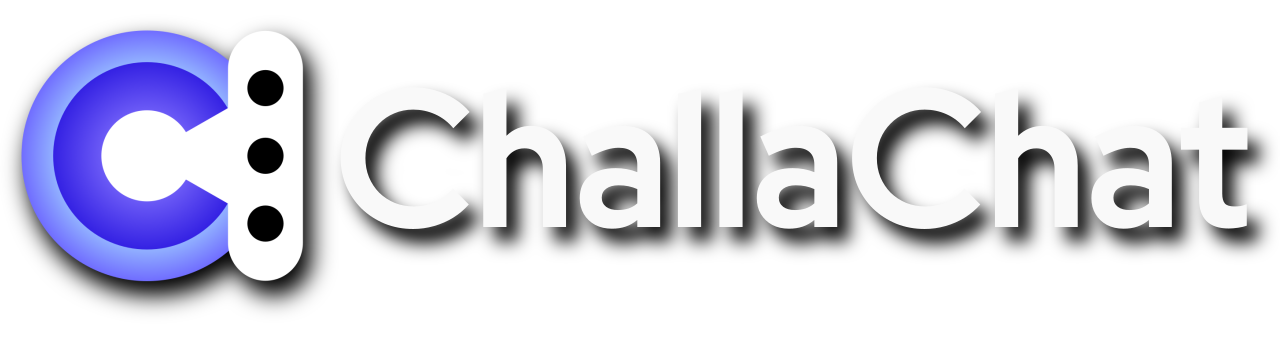
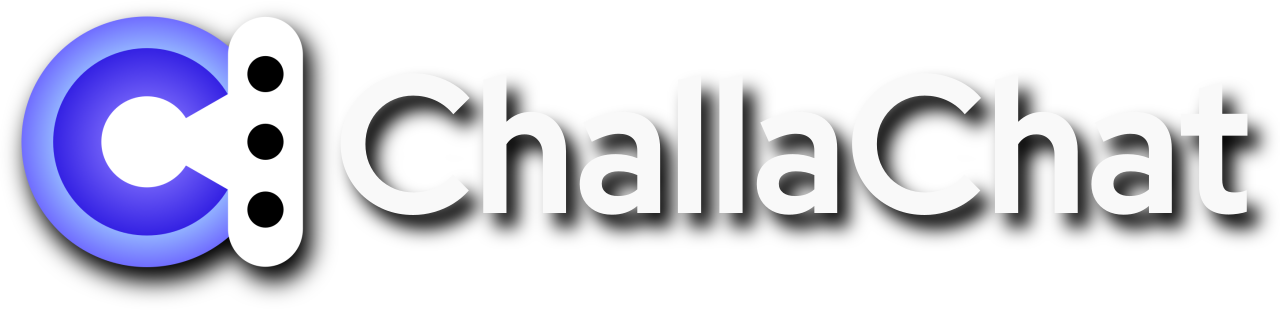
margin/padding adjustments

diff --git a/website/styles.css b/website/styles.css
@@ -120,7 +120,7 @@ section h2 {
 /* Main Section */
 .main-section {
     background: linear-gradient(135deg, #1d1535 0%, #271858 40%, #2d1d60 70%, #231845 100%);
-    padding: 32px 0;
+    padding: 16px 0;
 }
 
 /* Unified card style */
@@ -237,8 +237,8 @@ section h2 {
 
 .product-logo {
     width: 100%;
-    max-width: 550px;
-    max-height: 160px;
+    max-width: 420px;
+    max-height: 120px;
     margin: 0 auto -0.25rem;
     display: flex;
     align-items: center;
@@ -248,7 +248,7 @@ section h2 {
 .product-logo img {
     width: 100%;
     height: auto;
-    max-height: 160px;
+    max-height: 120px;
     object-fit: contain;
 }
 
@@ -408,7 +408,7 @@ section h2 {
 /* Streaming card specifics (inherits .site-card) */
 .streaming-card {
     padding: 0.75rem;
-    margin: 1.5rem auto 0;
+    margin: 1rem auto 0;
     display: flex;
     align-items: center;
     gap: 0.5rem;
@@ -690,16 +690,16 @@ section h2 {
 .feature-grid {
     display: grid;
     grid-template-columns: 1fr 1fr; /* two columns */
-    gap: 20px;
+    gap: 14px;
     max-width: var(--site-card-max-width);
-    margin: 1.5rem auto 0;
+    margin: 1rem auto 0;
 }
 
 /* Feature grid itself is constrained; container uses default padding and width */
 
 /* Feature card specifics (inherits .site-card) */
 .feature-card {
-    padding: 1.2rem;
+    padding: 0.7rem 0.9rem;
 }
 
 .feature-card h3 {
@@ -759,7 +759,7 @@ section h2 {
 /* Keep the video width aligned with card space */
 .main-section .demo-container {
     max-width: var(--site-card-max-width);
-    margin: 1.5rem auto 0;
+    margin: 1rem auto 0;
 }
 
 .demo-placeholder {
@@ -814,7 +814,7 @@ section h2 {
 
 .setup-steps {
     max-width: var(--site-card-max-width);
-    margin: 1.5rem auto 0;
+    margin: 1rem auto 0;
 }
 
 /* Setup step specifics (inherits .site-card) */

diff --git a/website/index.html b/website/index.html
@@ -50,7 +50,7 @@
                     <p>Windows, macOS, and Linux builds available as both installer and portable. Works with OBS, Streamlabs, and any streaming software via Browser Source.</p>
                 </div>
                 <div class="site-card feature-card">
-                    <h3>⚡ Multi‑Stream Capture</h3>
+                    <h3>⚡ Multi-Stream Capture</h3>
                     <p>Supports YouTube, Twitch, and Kick with up to 10 simultaneous connections. Messages stream instantly to your overlay via local SSE.</p>
                 </div>
                 <div class="site-card feature-card">
@@ -59,7 +59,7 @@
                 </div>
                 <div class="site-card feature-card">
                     <h3>🎨 Full Customization</h3>
-                    <p>Theme presets, custom fonts, color pickers, and a live preview. Sound effects, a built‑in music player, profanity filter, and more - all from one admin panel.</p>
+                    <p>Theme presets, custom fonts, color pickers, and a live preview. Sound effects, a built-in music player, profanity filter, and more - all from one admin panel.</p>
                 </div>
             </div>
 
